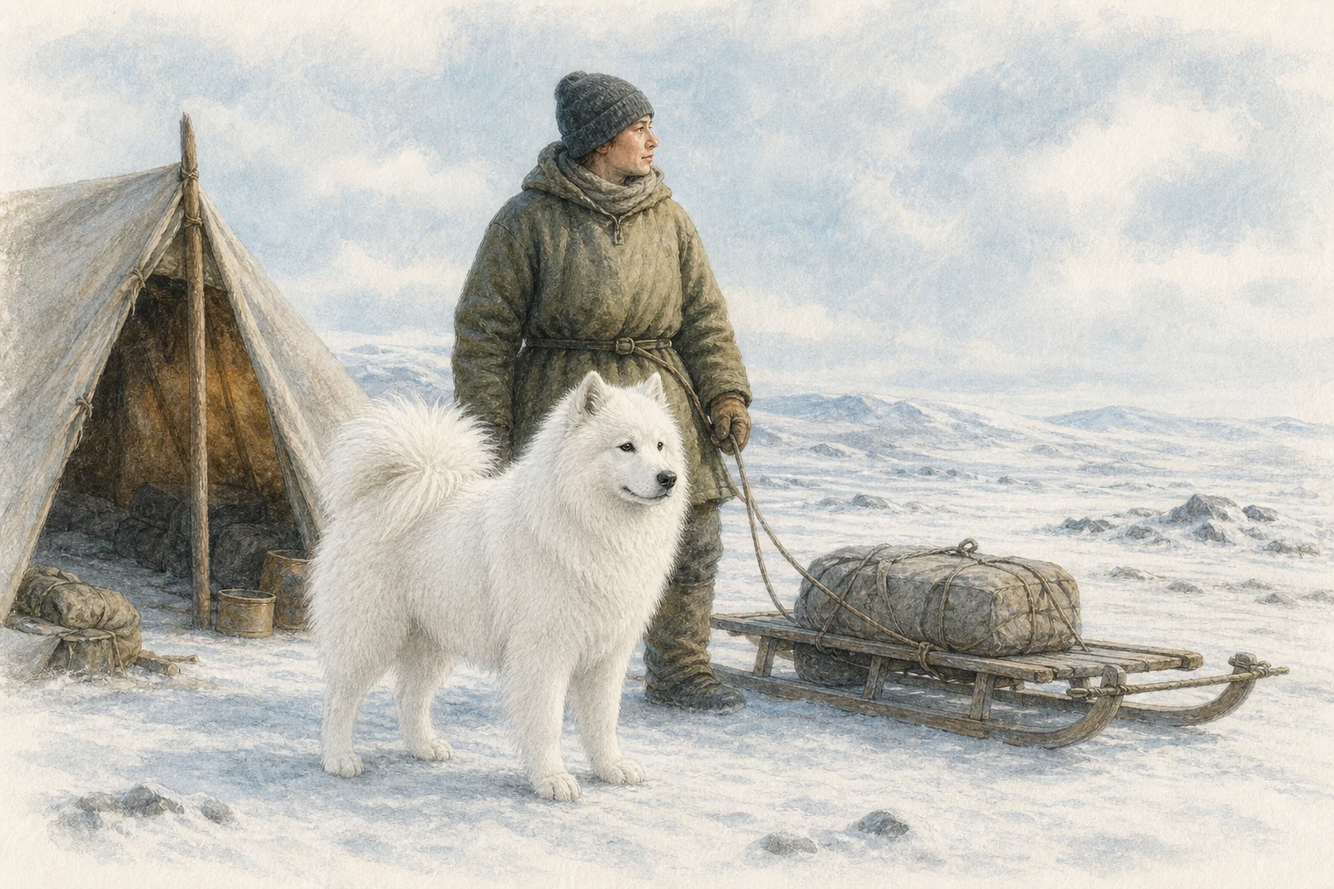
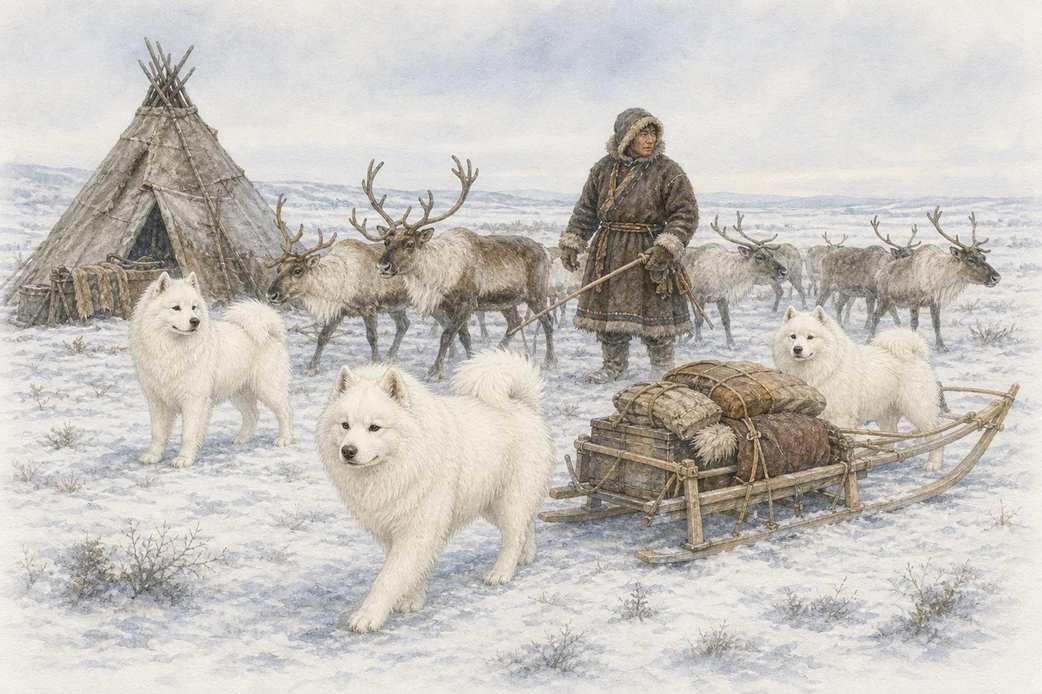
Complete Samoyed breed page

diff --git a/src/content/breeds/data.ts b/src/content/breeds/data.ts
@@ -274,18 +274,18 @@ const draftBreeds = [
     catalog: { group: "northern-working", discoveryTags: ["북방 작업견", "사람과의 협력", "이중모 관리"] },
     historyVisual: {
       src: "/illustrations/v3/samoyed-history.webp",
-      alt: "눈 덮인 북방 환경에서 사람, 흰 스피츠형 작업견, 짐을 실은 썰매를 그린 편집 삽화",
+      alt: "눈 덮인 북부 러시아와 시베리아의 생활 터전에서 순록 무리와 썰매 곁을 함께하는 사모예드들을 그린 편집 삽화",
     },
-    identity: { origin: "시베리아 북부", lineage: "북방 스피츠·작업견", originalRole: "순록 이동 보조, 경비와 사람 곁의 생활", size: "중대형", lifespan: "약 12~14년 (AKC 참고 범위)" },
+    identity: { origin: "북부 러시아·시베리아", lineage: "북방 스피츠·작업견", originalRole: "썰매견·반려견", size: "중대형 · 약 48~60cm, 16~30kg", lifespan: "약 12~14년 (AKC 참고 범위)" },
     behaviorClues: {
-      originalRole: "북방 환경에서 사람과 협업하며 이동을 돕고 주변을 살피던 작업의 맥락이 소개됩니다.",
-      today: "당기는 힘, 사람과의 교감 요구, 풍성한 이중모 관리가 일상에서 함께 나타날 수 있습니다.",
-      guardianContext: "목욕 회피를 역사로 설명하지 않아요. 물과 소리, 바닥, 보정에 점진적으로 적응시키고 이중모를 완전히 말릴 시간과 환경을 확인해요.",
+      originalRole: "북부 러시아와 시베리아에서 순록을 몰고 사냥과 썰매를 돕는 한편, 사람과 가까이 생활한 작업견입니다.",
+      today: "가족의 활동에 참여하려 하거나 몸을 쓰는 과제와 교감을 적극적으로 찾는 모습이 보일 수 있습니다.",
+      guardianContext: "충분한 활동과 함께 편안히 쉬는 시간, 더운 계절의 실내 환경과 이중모 관리까지 준비하세요. 반응은 개체마다 다릅니다.",
     },
     story: {
-      opening: "사모예드는 혹독한 북방 환경에서 사람 가까이 지내며 이동과 일상을 함께한 작업견입니다. 두꺼운 흰 털은 단순한 장식이 아니라 환경에 적응한 결과입니다.",
-      roleToHome: "사람과 가까이 협력해온 배경은 오늘날에도 교감과 참여 욕구로 이어질 수 있습니다. 힘과 활동성, 풍성한 털의 관리가 함께 따라와요.",
-      reality: "미소 짓는 듯한 외모만으로 선택하기에는 일상의 부담이 큽니다. 규칙적인 활동, 더운 날씨 관리, 털갈이 시기의 집중적인 빗질과 충분한 교감이 필요합니다.",
+      opening: "사모예드는 북부 러시아와 시베리아에서 사모예드계 민족과 함께 생활하며 발전했습니다. 지역에 따라 순록을 몰고, 사냥과 썰매 이동을 도우며, 거처 안에서 사람과 가까이 지냈습니다.",
+      roleToHome: "19세기 말 탐험가들이 이 개들을 영국으로 데려갔고, 1909년 첫 견종 표준이 작성되며 오늘날의 사모예드가 정립되기 시작했습니다. 탄탄하면서 유연한 몸과 촘촘한 이중모는 추운 환경에서 여러 일을 수행한 배경을 보여줍니다.",
+      reality: "미소 짓는 듯한 외모만으로 선택하기에는 일상의 부담이 큽니다. 규칙적인 활동과 교감, 더운 날씨 관리, 털갈이 시기의 집중적인 빗질을 함께 준비해야 합니다.",
     },
     tendencies: {
       activity: { label: "높은 편", note: "힘과 지구력을 가진 작업견으로 규칙적인 활동이 필요합니다." },
@@ -295,7 +295,7 @@ const draftBreeds = [
       alerting: { label: "중간", note: "주변 변화에 반응하거나 목소리로 표현할 수 있습니다." },
       grooming: { label: "높은 편", note: "두꺼운 이중모, 특히 털갈이 시기의 관리 부담이 큽니다." },
     },
-    careNotes: ["더운 날씨에는 활동 시간과 실내 온도, 호흡 상태를 세심하게 살펴야 합니다.", "털갈이 시기의 관리 시간과 집 안의 털을 현실적인 생활 부담으로 계산해보세요."],
+    careNotes: ["더운 날씨에는 선선한 시간대를 고르고 실내 온도와 호흡 상태를 세심하게 살펴주세요.", "평소에도 피부 가까이까지 빗고 털갈이 시기에는 관리 횟수와 건조 시간을 충분히 확보하세요."],
     healthEditorialNote: "품종별 건강 위험은 수의학 검수와 출처 교차 확인 전까지 진단형 정보로 제공하지 않습니다.",
     daySnapshot: [
       { time: "아침", title: "선선할 때 활동", description: "날씨를 고려해 충분한 움직임을 제공해요." },
@@ -306,7 +306,12 @@ const draftBreeds = [
       { slug: "japanese-spitz", reason: "하얀 스피츠형 외모는 닮았지만 체격과 활동·털 관리 부담이 달라요." },
       { slug: "border-collie", reason: "모두 작업견 배경이 있지만 사람과 협력해온 방식과 자극의 종류가 달라요." },
     ],
-    sources: [{ title: "Samoyed Dog Breed Information", organization: "American Kennel Club", url: "https://www.akc.org/dog-breeds/samoyed/", checkedAt }],
+    sources: [
+      { title: "FCI Standard No. 212 — Samoyed", organization: "Fédération Cynologique Internationale", url: "https://www.fci.be/Nomenclature/Standards/212g05-en.pdf", checkedAt },
+      { title: "Samoyed Dog Breed Information", organization: "American Kennel Club", url: "https://www.akc.org/dog-breeds/samoyed/", checkedAt },
+      { title: "Samoyed History: From Nomadic Hunters to Fluffy Friends", organization: "American Kennel Club", url: "https://www.akc.org/expert-advice/dog-breeds/samoyed-history/", checkedAt },
+      { title: "Is the Samoyed a Good Fit for You?", organization: "American Kennel Club", url: "https://www.akc.org/expert-advice/dog-breeds/samoyed-right-for-you/", checkedAt },
+    ],
   },
   ...detailBatchA,
   ...detailBatchB,

diff --git a/src/content/breed-features/data.ts b/src/content/breed-features/data.ts
@@ -151,6 +151,36 @@ export const breedFeatureSets = breedFeatureCollectionSchema.parse([
       },
     ],
   },
+  {
+    slug: "samoyed",
+    intro: "사람과 일상을 나누는 방식, 힘과 지구력을 쓰는 활동, 두꺼운 이중모의 계절 관리를 먼저 살펴보세요.",
+    cards: [
+      {
+        eyebrow: "사람과의 동행",
+        title: "일상에 함께 참여하는 것을 좋아할 수 있어요.",
+        description: "사람 가까이 머물며 가족의 활동에 참여하려는 모습을 보일 수 있어요. 함께 걷고 놀아주는 시간뿐 아니라, 가까운 자리에서 편안히 쉬고 짧게 혼자 머무는 경험도 천천히 알려주세요.",
+        image: "/illustrations/v4/samoyed-feature-companionship.webp",
+        alt: "현대 가정에서 외출을 준비하는 가족 가까이에 편안히 누워 있는 성견 사모예드 삽화",
+        sourceUrls: ["https://www.fci.be/Nomenclature/Standards/212g05-en.pdf", "https://www.akc.org/expert-advice/dog-breeds/samoyed-right-for-you/"],
+      },
+      {
+        eyebrow: "활동과 과제",
+        title: "힘과 지구력을 쓸 목적 있는 활동이 필요해요.",
+        description: "힘과 활동성이 높은 작업견이라 걷기만 길게 반복하기보다 냄새 찾기, 방향 신호, 안전한 하네스 운동처럼 몸과 판단을 함께 쓰는 과제를 번갈아 제공해주세요.",
+        image: "/illustrations/v4/samoyed-feature-purposeful-activity.webp",
+        alt: "선선한 숲길에서 몸에 맞는 당김 하네스를 착용하고 보호자와 함께 달리는 성견 사모예드 삽화",
+        sourceUrls: ["https://www.akc.org/dog-breeds/samoyed/", "https://www.akc.org/expert-advice/dog-breeds/samoyed-history/"],
+      },
+      {
+        eyebrow: "이중모와 계절",
+        title: "두꺼운 이중모는 자주 빗고 계절을 조절해야 해요.",
+        description: "부드럽고 촘촘한 속털 위에 더 길고 거친 겉털이 자라는 견종이에요. 평소에도 피부 가까이까지 빗고, 털갈이 시기에는 관리 횟수를 늘리며 더운 날에는 선선한 생활 환경을 마련해주세요.",
+        image: "/illustrations/v4/samoyed-feature-double-coat.webp",
+        alt: "선선한 실내의 미끄럽지 않은 매트에서 풍성한 이중모를 빗질받는 성견 사모예드 삽화",
+        sourceUrls: ["https://www.fci.be/Nomenclature/Standards/212g05-en.pdf", "https://www.akc.org/expert-advice/dog-breeds/samoyed-right-for-you/"],
+      },
+    ],
+  },
 ]);
 
 const breedFeaturesBySlug = new Map(breedFeatureSets.map((featureSet) => [featureSet.slug, featureSet]));

diff --git a/src/content/breed-features/data.test.ts b/src/content/breed-features/data.test.ts
@@ -16,7 +16,7 @@ function readVp8Dimensions(bytes: Buffer) {
 
 describe("breed-specific feature cards", () => {
   it("publishes exactly three unique cards for each completed feature breed", () => {
-    expect(breedFeatureSets.map((featureSet) => featureSet.slug)).toEqual(["japanese-spitz", "maltese", "border-collie", "greyhound", "yakutian-laika"]);
+    expect(breedFeatureSets.map((featureSet) => featureSet.slug)).toEqual(["japanese-spitz", "maltese", "border-collie", "greyhound", "yakutian-laika", "samoyed"]);
 
     for (const featureSet of breedFeatureSets) {
       expect(getBreed(featureSet.slug)).toBeDefined();
@@ -66,7 +66,7 @@ describe("breed-specific feature cards", () => {
 
   it("keeps feature coverage separate from the catalog used by discovery", () => {
     expect(breeds).toHaveLength(376);
-    expect(breedFeatureSets).toHaveLength(5);
-    expect(getBreedFeatures("samoyed")).toBeUndefined();
+    expect(breedFeatureSets).toHaveLength(6);
+    expect(getBreedFeatures("siberian-husky")).toBeUndefined();
   });
 });

diff --git a/src/lib/breed-fact-presentation.test.ts b/src/lib/breed-fact-presentation.test.ts
@@ -58,6 +58,16 @@ describe("breed fact presentation", () => {
     });
   });
 
+  it("separates Samoyed height and weight for the detail summary", () => {
+    const facts = getBreedFactPresentation(getBreed("samoyed")!);
+
+    expect(facts).toMatchObject({
+      size: "48~60cm · 16~30kg",
+      height: "48~60cm",
+      weight: "16~30kg",
+    });
+  });
+
   it("shows compact numeric facts for poodle", () => {
     const poodle = getBreed("poodle")!;
 

diff --git a/src/lib/breed-fact-presentation.ts b/src/lib/breed-fact-presentation.ts
@@ -38,7 +38,11 @@ const breedFactOverrides: Record<string, BreedFactOverride> = {
     height: "53~59cm",
     weight: "18~25kg",
   },
-  samoyed: { size: "48~60cm · 16~30kg" },
+  samoyed: {
+    size: "48~60cm · 16~30kg",
+    height: "48~60cm",
+    weight: "16~30kg",
+  },
   chihuahua: { size: "13~20cm · 2.7kg 이하" },
   "shih-tzu": { size: "23~27cm · 4~7kg" },
   poodle: {

diff --git a/docs/project-status.md b/docs/project-status.md
@@ -73,7 +73,7 @@ Dog Atlas(살아 있는 견종도감)는 강아지를 고려하는 사람이 외
 ### 견종 상세 `/breeds/[slug]`
 
 - 376개 상세 모두 말티즈에서 검증한 간결한 정보 위계를 공통으로 사용한다. 첫 화면은 견종명과 대표 이미지부터 보여주고 영문명·지역·등록 상태·한 줄 소개·상단 실행 버튼은 두지 않는다.
-- 재패니즈 스피츠·말티즈·보더콜리·그레이하운드·야쿠티안 라이카 상세는 견종별 편집 카드 구조를 적용한다. 재패니즈 스피츠는 사람과의 관계·알림 반응·이중모 관리, 말티즈는 사람과의 관계·작은 체구의 생활 안전·긴 피모 관리, 보더콜리는 몰이와 움직임·배움과 과제·활동과 휴식, 그레이하운드는 시각 추적·질주와 휴식·추운 날의 보온, 야쿠티안 라이카는 사람과의 협력·활동과 과제·이중모의 계절 관리를 각각 3개의 4:3 삽화와 설명으로 보여준다. 외형만 반복하거나 근거 수준이 다른 건강 정보는 카드에서 제외하며, 다른 371개 상세는 기존 공통 생활 카드 구성을 유지한다. 다음 확장 기준은 [`breed-feature-card-rollout.md`](breed-feature-card-rollout.md)에 정리돼 있다.
+- 재패니즈 스피츠·말티즈·보더콜리·그레이하운드·야쿠티안 라이카·사모예드 상세는 견종별 편집 카드 구조를 적용한다. 재패니즈 스피츠는 사람과의 관계·알림 반응·이중모 관리, 말티즈는 사람과의 관계·작은 체구의 생활 안전·긴 피모 관리, 보더콜리는 몰이와 움직임·배움과 과제·활동과 휴식, 그레이하운드는 시각 추적·질주와 휴식·추운 날의 보온, 야쿠티안 라이카는 사람과의 협력·활동과 과제·이중모의 계절 관리, 사모예드는 사람과의 동행·목적 있는 활동·이중모의 계절 관리를 각각 3개의 4:3 삽화와 설명으로 보여준다. 외형만 반복하거나 근거 수준이 다른 건강 정보는 카드에서 제외하며, 다른 370개 상세는 기존 공통 생활 카드 구성을 유지한다. 다음 확장 기준은 [`breed-feature-card-rollout.md`](breed-feature-card-rollout.md)에 정리돼 있다.
 - 상세 대표 이미지는 정사각형 원본과 프레임 비율을 맞춰 좌우 여백 없이 표시한다. 상세의 주요 섹션도 공통 최대 1440px 컨테이너를 사용하되 본문 문단은 별도의 읽기 폭을 유지한다. 역사 이미지는 원본 비율이 달라도 3:2 장면 프레임을 채우며, 동일 URL의 출처는 목록에 한 번만 표시한다.
 - 상세 하단의 다음 선택 영역은 별도 배경과 설명 문구 없이 `맞이할 준비하기`와 `비교 후보에 담기` 두 행동만 제공한다. 데스크톱은 체크리스트·후보 비교를 표현한 큰 3D 아이콘을 별도 배경 면 없이 위에, 실행 문구를 아래에 둔 동일 폭 카드 버튼을 대표 비교의 900px 폭에 맞춰 가운데 배치하고, 모바일은 한 열로 표시한다. 두 버튼은 같은 밝은 기본색을 사용하고 hover 또는 선택 상태에서 진한 모스색으로 전환한다. 대표 비교 다음의 관련 견종은 유사한 외형·역할·생활 조건을 비교할 수 있는 최대 3마리를 큰 이미지·`한국어 이름 (영문명)`·설명 순서의 카드로 표시하며, 데스크톱은 3열·태블릿과 모바일은 한 열로 배치한다.
 - 이름 속 견종과 호기심 탐험 화면도 탐색 탭·견종 카드·이미지 프레임에 컬러 외곽선을 사용하지 않고 배경 명도와 부드러운 그림자로 선택 상태와 카드 위계를 구분한다.
@@ -172,9 +172,9 @@ Dog Atlas(살아 있는 견종도감)는 강아지를 고려하는 사람이 외
 | non-FCI | 12 | 같은 테스트의 `registryStatus` |
 | 도감 포함 유형 | 국제 등록 368, 국가유산 2, 검증된 랜드레이스 1, 기록된 개체군 3, 디자이너 교배견 2 | 같은 테스트의 `inclusionType` |
 | 카드·역사 이미지 | 상세 376개 모두 로컬 경로 존재 | `data.test.ts`, `visual-assets.test.ts` |
-| 견종별 특징 카드 | 5종·15개, 각 1200×900 WebP | `breed-features/data.test.ts` |
+| 견종별 특징 카드 | 6종·18개, 각 1200×900 WebP | `breed-features/data.test.ts` |
 | 이미지 용량 예산 | 카드 각 550KB 이하, 역사 각 700KB 이하 | `visual-assets.test.ts` |
-| 외형 정밀 검수 | 23종에서 37개 카드·역사 자산 교체 완료, 페키니즈·스카이 테리어·진돗개 유지 확인, 그 외는 미승인 1차 점검 또는 집중 재확인 상태 | [`breed-visual-audit.md`](breed-visual-audit.md) |
+| 외형 정밀 검수 | 24종에서 39개 카드·역사 자산 교체 완료, 페키니즈·스카이 테리어·진돗개 유지 확인, 그 외는 미승인 1차 점검 또는 집중 재확인 상태 | [`breed-visual-audit.md`](breed-visual-audit.md) |
 | 한국어 표시 카피 | 기존 368개 항목 16,157개 문자열 자동 점검; 신규 2개 항목은 배치 테스트·ESLint·화면 검수 완료 | [`korean-copy-audit.md`](korean-copy-audit.md) |
 
 모든 상세 항목의 현재 `contentStatus`는 `mvp-editorial-draft`다. 이는 스키마 검증과 편집·출처 작업이 존재한다는 뜻이지, 수의학 또는 행동 전문가 검수를 완료했다는 뜻이 아니다.
@@ -184,7 +184,7 @@ Dog Atlas(살아 있는 견종도감)는 강아지를 고려하는 사람이 외
 - [`mvp-scope.md`](mvp-scope.md)는 100종까지의 확장 기록을 담고 있으나 구현은 376개 상세 항목까지 진행됐다.
 - [`catalog-20-proposal.md`](catalog-20-proposal.md)와 초기 디자인 명세의 ‘20종’ 표현은 역사적 계획이다.
 - 이미지 프롬프트 배치 A·B 문서는 초기 15종의 제작 기록이며 전체 자산 제작 이력을 대표하지 않는다.
-- 이미지 테스트 통과는 실제 외형의 정확성을 뜻하지 않는다. 기존 368종 카드는 1차 시각 점검했고, 삽살개를 포함한 22종에서 큰 불일치가 확인된 35개 자산을 공식·기관 자료에 맞춰 교체했다. 새 골든두들·말티푸 자산은 부모견 자료와 교배견 편차를 반영한 편집 초안이며 외형 전문가 승인 상태가 아니다. 상세 상태는 [`breed-visual-audit.md`](breed-visual-audit.md)를 따른다.
+- 이미지 테스트 통과는 실제 외형의 정확성을 뜻하지 않는다. 기존 368종 카드는 1차 시각 점검했고, 삽살개를 포함한 24종에서 큰 불일치가 확인된 39개 자산을 공식·기관 자료에 맞춰 교체했다. 새 골든두들·말티푸 자산은 부모견 자료와 교배견 편차를 반영한 편집 초안이며 외형 전문가 승인 상태가 아니다. 상세 상태는 [`breed-visual-audit.md`](breed-visual-audit.md)를 따른다.
 - 제품명은 코드 메타데이터에서 ‘살아 있는 견종도감’, 저장소와 문서에서는 ‘Dog Atlas’를 함께 사용한다.
 - 아메리칸 핏불 테리어와 아메리칸 불리는 FCI가 아니라 UKC 등록 기준을 명시해 상세를 제공한다.
 - 몽골 방카르처럼 공식 국제 견종 목록 밖의 토착 랜드레이스는 지역 정체성, 지속된 역할, 기관 또는 학술 근거, 다른 견종과의 명칭 경계를 확인하는 별도 트랙으로 다룬다.
@@ -206,6 +206,8 @@ npm run build
 UI 변경은 추가로 390px, 768px, 1440px, 1920px 폭에서 확인한다. 비교 화면은 최대 1440px까지 확장할 수 있으며, 필수 정보는 모션이나 이미지가 없어도 접근 가능해야 한다.
 
 최근 검증 결과(2026-08-20):
+
+- 2026-08-20 기존 카탈로그의 `사모예드`를 여섯 번째 견종별 완성 구조로 확장했다. 대표·역사 이미지를 재패니즈 스피츠와 구분되는 탄탄한 중형 작업견 체형과 순록 목축·썰매·사람 가까이의 생활 배경으로 교체하고, 사람과의 동행·목적 있는 활동·이중모와 계절을 다루는 1200×900 WebP 카드 3개를 추가했다. 크기는 `체고 48~60cm`·`몸무게 16~30kg`으로 분리하고 원래 역할을 `썰매견·반려견`으로 간결하게 정리했으며 역사·출처를 보강했다. 다른 370개 상세와 UI 구조는 유지한다. 전체 ESLint·TypeScript·141개 테스트와 400개 경로 프로덕션 빌드를 통과했고, 로컬 상세 응답에서 새 카드·수치·역사·대표 이미지와 기존 공통 카드 미노출을 확인했다.
 
 - 2026-08-20 기존 카탈로그의 `야쿠티안 라이카`를 다섯 번째 견종별 완성 구조로 확장했다. 대표 카드의 둥글고 짧은 소형 스피츠형 외형과 역사 장면의 순백색 개·순록 썰매를 공식 표준에 맞는 흰 바탕 검정·회색 반점의 중형 작업견과 개썰매 팀으로 교체하고, 사람과의 협력·활동과 과제·이중모와 계절을 다루는 1200×900 WebP 카드 3개를 추가했다. 크기는 `체고 53~59cm`·`몸무게 18~25kg`으로 분리하고 역할·역사·출처를 보강했으며 다른 371개 상세와 UI 구조는 유지한다. 전체 ESLint·TypeScript·140개 테스트와 400개 경로 프로덕션 빌드를 통과했고, 로컬 상세 응답에서 새 카드·수치·역사·대표 이미지와 기존 공통 카드 미노출을 확인했다.
 

diff --git a/docs/breed-visual-audit.md b/docs/breed-visual-audit.md
@@ -13,7 +13,7 @@
 - 카드 자산 368종은 접촉 시트로 1차 시각 점검했다. 일반 카드 361개와 별도 앞면 카드 7개를 모두 포함했다.
 - 외형 차이가 큰 후보는 원본 해상도로 다시 보고 FCI·국가 켄넬클럽·국가 기관·학술 자료처럼 출처가 분명한 자료와 대조했다.
 - 교체 대상은 카드와 역사 장면을 한 묶음으로 확인하고, 같은 잘못된 형태가 반복되면 두 자산을 함께 교체했다.
-- 2026-08-20 현재 **23종에서 총 37개 카드·역사 자산 교체를 완료**했다. 이는 전체 도감에 대한 전문 컨포메이션 승인을 뜻하지 않는다.
+- 2026-08-20 현재 **24종에서 총 39개 카드·역사 자산 교체를 완료**했다. 이는 전체 도감에 대한 전문 컨포메이션 승인을 뜻하지 않는다.
 - 기존 자동 테스트는 경로, WebP 형식, 크기, 중복 여부를 확인한다. 귀·머리·체형·피모·꼬리·모색의 정확성은 이 문서의 별도 검수 절차를 따른다.
 
 ## 상태 기준
@@ -25,7 +25,7 @@
 | 집중 재확인 | 오류로 확정할 단계는 아니지만 대표 특징이 약하거나 근거 자료가 제한적인 상태 |
 | 1차 점검 | 큰 오류는 즉시 발견되지 않았지만 개별 출처 검증은 아직 완료되지 않은 상태 |
 
-## 교체 완료 23종
+## 교체 완료 24종
 
 | 견종 | 기존 그림의 핵심 문제 | 새 그림에서 우선한 특징 | 비교 근거 |
 |---|---|---|---|
@@ -40,6 +40,7 @@
 | 베들링턴 테리어 (`bedlington-terrier`) | 둥근 얼굴과 긴 곱슬 귀의 푸들처럼 보여 고유한 머리선과 체형이 사라짐 | 끊김 없는 배·쐐기형 머리선, 귀 끝의 술, 아치형 허리와 복부선, 낮게 이어지는 가는 꼬리 | [FCI 표준 9](https://www.fci.be/Nomenclature/Standards/009g03-en.pdf) |
 | 노르웨이안 룬데훈트 (`norwegian-lundehund`) | 일반적인 스피츠와 구분되지 않고 기능성 여섯 발가락이 보이지 않음 | 작고 가벼운 직사각형 체형, 적갈·흰 모색, 접을 수 있는 귀, 양 앞발의 기능성 여섯 발가락 | [FCI 표준 265](https://www.fci.be/Nomenclature/Standards/265g05-en.pdf) |
 | 야쿠티안 라이카 (`yakutian-laika`) | 대표 카드는 머리와 몸이 지나치게 둥글고 짧아 작은 허스키형 스피츠처럼 보였고, 역사 장면은 순백색 개와 순록 썰매가 중심이라 고유 외형과 개썰매 역할이 약함 | 중형의 탄탄한 체형, 넓은 쐐기형 머리, 흰 바탕의 검정·회색 반점, 풍성한 이중모와 등 위로 말리는 꼬리, 물자를 옮기는 야쿠티안 라이카 개썰매 팀 | [FCI 표준 365](https://www.fci.be/Nomenclature/Standards/365g05-en.pdf) |
+| 사모예드 (`samoyed`) | 대표 카드가 몸통이 짧고 둥글어 작은 흰 스피츠를 확대한 듯 보였고, 역사 장면은 한 마리와 썰매만 배치해 순록 목축과 사람 가까이에서 지낸 다목적 역할이 충분히 드러나지 않음 | 중형의 탄탄하고 유연한 체형, 쐐기형 머리와 짙은 아몬드형 눈, 거친 겉털과 촘촘한 속털, 순록 무리·썰매·생활 터전을 함께 보여주는 역사 장면 | [FCI 표준 212](https://www.fci.be/Nomenclature/Standards/212g05-en.pdf) |
 | 마렘마 앤 아브루초 셰퍼드 (`maremma-sheepdog`) | 카드의 꼬리가 등에 단단히 말려 표준의 평상시 꼬리와 충돌하고 머리가 리트리버에 가까움 | 크고 소박한 백색 가축보호견 체형, 넓은 원뿔형 머리, 작은 V형 늘어진 귀, 비절 아래로 낮게 늘어진 꼬리 | [FCI 표준 201](https://www.fci.be/Nomenclature/Standards/201g01-en.pdf) |
 
 교체 파일은 각 slug를 기준으로 아래 두 경로에 있다.

diff --git a/docs/image-prompts-samoyed-2026-08-20.md b/docs/image-prompts-samoyed-2026-08-20.md
@@ -1,0 +1,37 @@
+# 사모예드 이미지 제작 기록
+
+> 제작일: 2026-08-20
+> 생성 방식: Codex 내장 ImageGen 신규 생성
+> 적용 페이지: `/breeds/samoyed`
+
+## 근거와 외형 기준
+
+- [FCI 표준 212](https://www.fci.be/Nomenclature/Standards/212g05-en.pdf): 중형의 탄탄하고 유연한 북방 스피츠, 쐐기형 머리, 짙은 아몬드형 눈, 작고 두꺼운 직립 귀, 풍성한 이중모, 등에 얹히는 꼬리, 북부 러시아·시베리아의 순록 목축·사냥·썰매 및 사람과 가까운 생활 배경.
+- [AKC 견종 소개](https://www.akc.org/dog-breeds/samoyed/): 작업견다운 힘과 지구력, 사람과의 사회적 관계.
+- [AKC 견종 역사](https://www.akc.org/expert-advice/dog-breeds/samoyed-history/): 순록 목축·사냥·썰매·거처 안의 생활과 서구 견종 정립 과정.
+- [AKC 생활 안내](https://www.akc.org/expert-advice/dog-breeds/samoyed-right-for-you/): 일상 참여, 규칙적인 활동과 정신적 자극, 잦은 이중모 관리.
+
+## 최종 저장 경로
+
+- `public/illustrations/v2/samoyed-card.webp` — 1200×1200 대표 카드
+- `public/illustrations/v3/samoyed-history.webp` — 1200×800 역사 장면
+- `public/illustrations/v4/samoyed-feature-companionship.webp` — 1200×900 사람과의 동행
+- `public/illustrations/v4/samoyed-feature-purposeful-activity.webp` — 1200×900 목적 있는 활동
+- `public/illustrations/v4/samoyed-feature-double-coat.webp` — 1200×900 이중모 관리
+
+## 최종 프롬프트 요약
+
+모든 이미지는 차분한 자연사 도감풍 수채화·색연필 질감으로 생성했다. 공통 외형 기준은 성견 사모예드의 중형 작업견 체형, 키보다 약간 긴 몸, 깊고 탄탄한 가슴, 쐐기형 머리, 짙은 아몬드형 눈, 작고 두꺼운 직립 귀, 흰색의 거친 겉털과 촘촘한 속털, 풍성하게 등에 얹히는 꼬리다. 재패니즈 스피츠나 포메라니안처럼 작고 둥근 비율, 푸른 눈, 과장된 미소와 구름 같은 무정형 피모는 제외했다.
+
+- 대표: 눈이 살짝 쌓인 중립 배경에 성견 한 마리를 3/4 전신으로 배치해 작업견다운 비율과 실루엣을 보여준다.
+- 역사: 북부 러시아·시베리아의 겨울 생활 터전에서 여러 사모예드가 순록 무리와 썰매 곁에서 사람을 돕는 장면을 보여준다. 순록을 썰매에 연결하지 않는다.
+- 사람과의 동행: 현대 가정에서 가족이 각자의 일상을 보내는 동안 가까운 자리에서 편안히 쉬는 장면으로, 강제 접촉 없이 생활 참여를 표현한다.
+- 목적 있는 활동: 선선한 숲길에서 몸에 맞는 당김 하네스와 허리 벨트·완충 라인을 사용해 보호자와 통제된 속도로 움직이는 장면이다.
+- 이중모 관리: 미끄럽지 않은 매트와 선선한 실내에서 피부 가까이까지 빗질하는 장면으로, 면도나 과도한 털 더미를 제외한다.
+
+## 시각 검수
+
+- 대표 이미지에서 귀·눈·주둥이·몸통·다리·꼬리와 이중모 흐름을 확인했다.
+- 역사 장면에서 순록이 썰매에 연결되지 않고 사모예드·순록·사람·생활 터전의 관계가 읽히는지 확인했다.
+- 활동 장면의 하네스 연결과 동행 장면의 느슨한 신체 언어, 관리 장면의 빗질 방향을 확인했다.
+- WebP 변환 뒤 대표 1200×1200, 역사 1200×800, 특징 카드 1200×900 규격과 파일 용량 예산을 확인한다.

diff --git a/docs/breed-feature-card-rollout.md b/docs/breed-feature-card-rollout.md
@@ -2,8 +2,8 @@
 
 > 상태: **소규모 확장 진행**
 > 마지막 갱신: 2026-08-20
-> 현재 구현: 재패니즈 스피츠·말티즈·보더콜리·그레이하운드·야쿠티안 라이카 5종
-> 남은 대상: 371개 상세 항목
+> 현재 구현: 재패니즈 스피츠·말티즈·보더콜리·그레이하운드·야쿠티안 라이카·사모예드 6종
+> 남은 대상: 370개 상세 항목
 
 ## 1. 다음 작업자가 가장 먼저 알아야 할 것
 
@@ -183,6 +183,8 @@ src/content/breed-features/
 세 번째 확장 대상으로 그레이하운드를 추가했다. 세 카드는 현대 산책에서의 시각 추적, 안전한 공간에서 짧게 속도를 내고 쉬는 리듬, 얇은 피모에 맞는 추운 날의 보온을 다룬다. 제작 근거와 프롬프트는 [`image-prompts-greyhound-features-2026-08-20.md`](image-prompts-greyhound-features-2026-08-20.md)에 기록했다.
 
 네 번째 확장 대상으로 야쿠티안 라이카를 추가했다. 세 카드는 사람과의 협력, 몸과 판단을 함께 쓰는 활동, 풍성한 이중모의 계절 관리를 다룬다. 기존 대표·역사 이미지도 실제 표준 외형과 역할에 맞춰 함께 교체했으며 제작 근거와 프롬프트는 [`image-prompts-yakutian-laika-2026-08-20.md`](image-prompts-yakutian-laika-2026-08-20.md)에 기록했다.
+
+다섯 번째 확장 대상으로 사모예드를 추가했다. 세 카드는 사람과의 동행, 힘과 지구력을 쓰는 목적 있는 활동, 두꺼운 이중모의 계절 관리를 다룬다. 기존 대표·역사 이미지도 재패니즈 스피츠와 구분되는 작업견 체형과 순록 목축·썰매 배경에 맞춰 교체했으며 제작 근거와 프롬프트는 [`image-prompts-samoyed-2026-08-20.md`](image-prompts-samoyed-2026-08-20.md)에 기록했다.
 
 ## 10. 완료 조건
 
